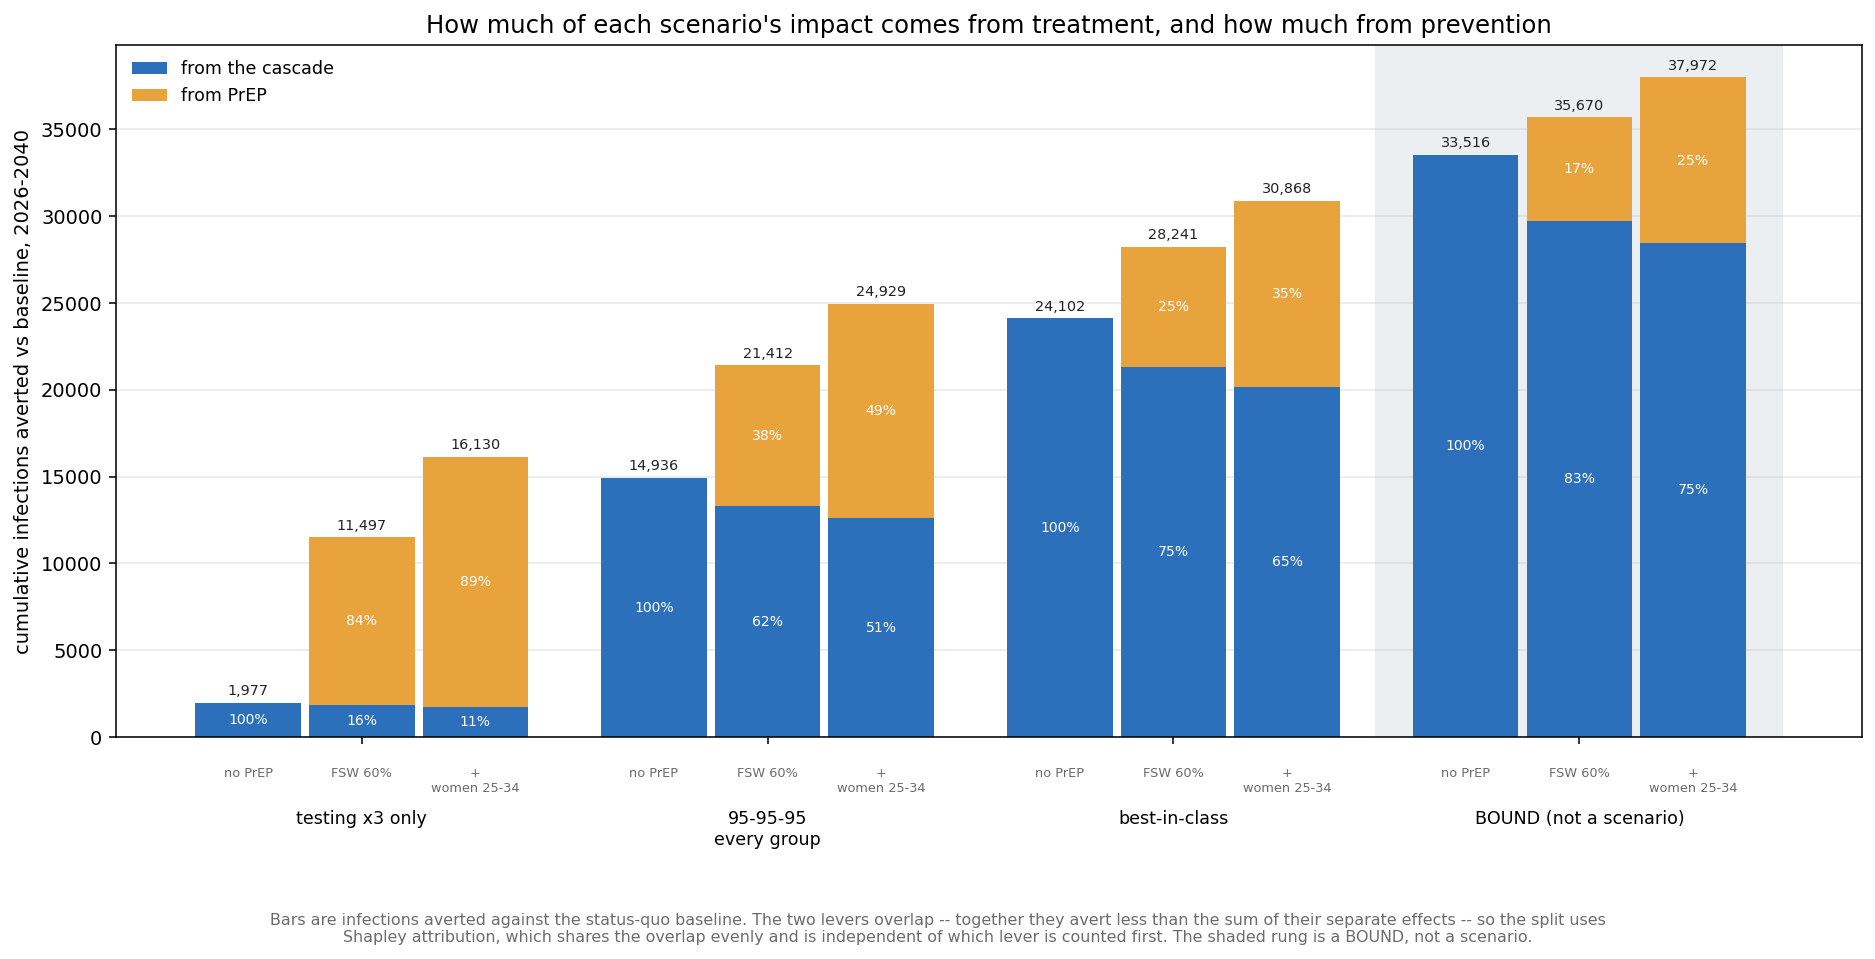
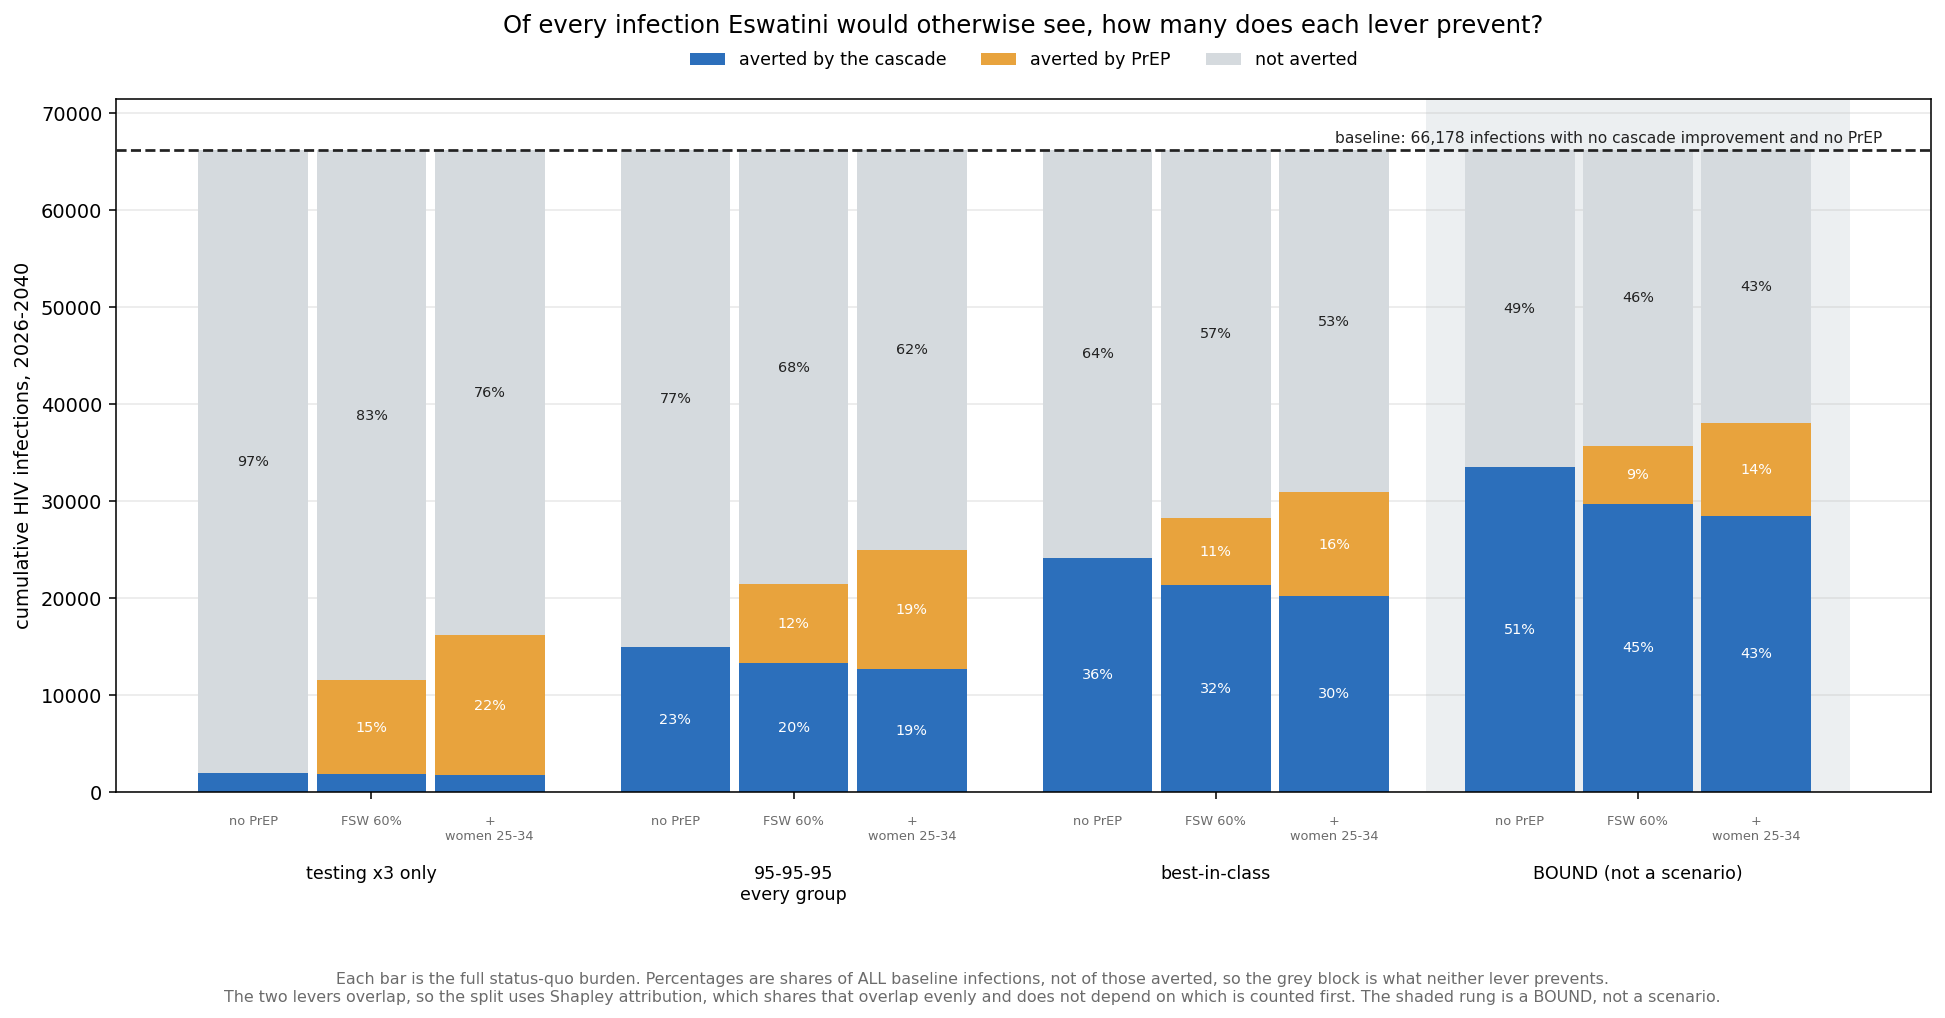
Attribution chart: full-burden bars, baseline line, legend clear of the labels

diff --git a/experiments/034_plausible_scenarios/analyse.py b/experiments/034_plausible_scenarios/analyse.py
@@ -578,9 +578,12 @@ def fig_attribution(attr, baseline_total):
     ax.set_ylabel(f"cumulative HIV infections, {WINDOW[0]}-{WINDOW[1]}")
     ax.set_ylim(0, baseline_total * 1.08)
     ax.grid(axis="y", alpha=0.28, zorder=0)
-    ax.legend(fontsize=9, frameon=False, loc="lower left")
+    # Legend above the axes: inside the plot it sat on top of the segment
+    # labels in the leftmost group, where the bars are shortest.
+    ax.legend(fontsize=9, frameon=False, ncol=3, loc="lower center",
+              bbox_to_anchor=(0.5, 1.02))
     ax.set_title("Of every infection Eswatini would otherwise see, how many "
-                 "does each lever prevent?", fontsize=12.5)
+                 "does each lever prevent?", fontsize=12.5, pad=34)
     fig.text(0.5, -0.06,
              "Each bar is the full status-quo burden. Percentages are shares of "
              "ALL baseline infections, not of those averted, so the grey block "
